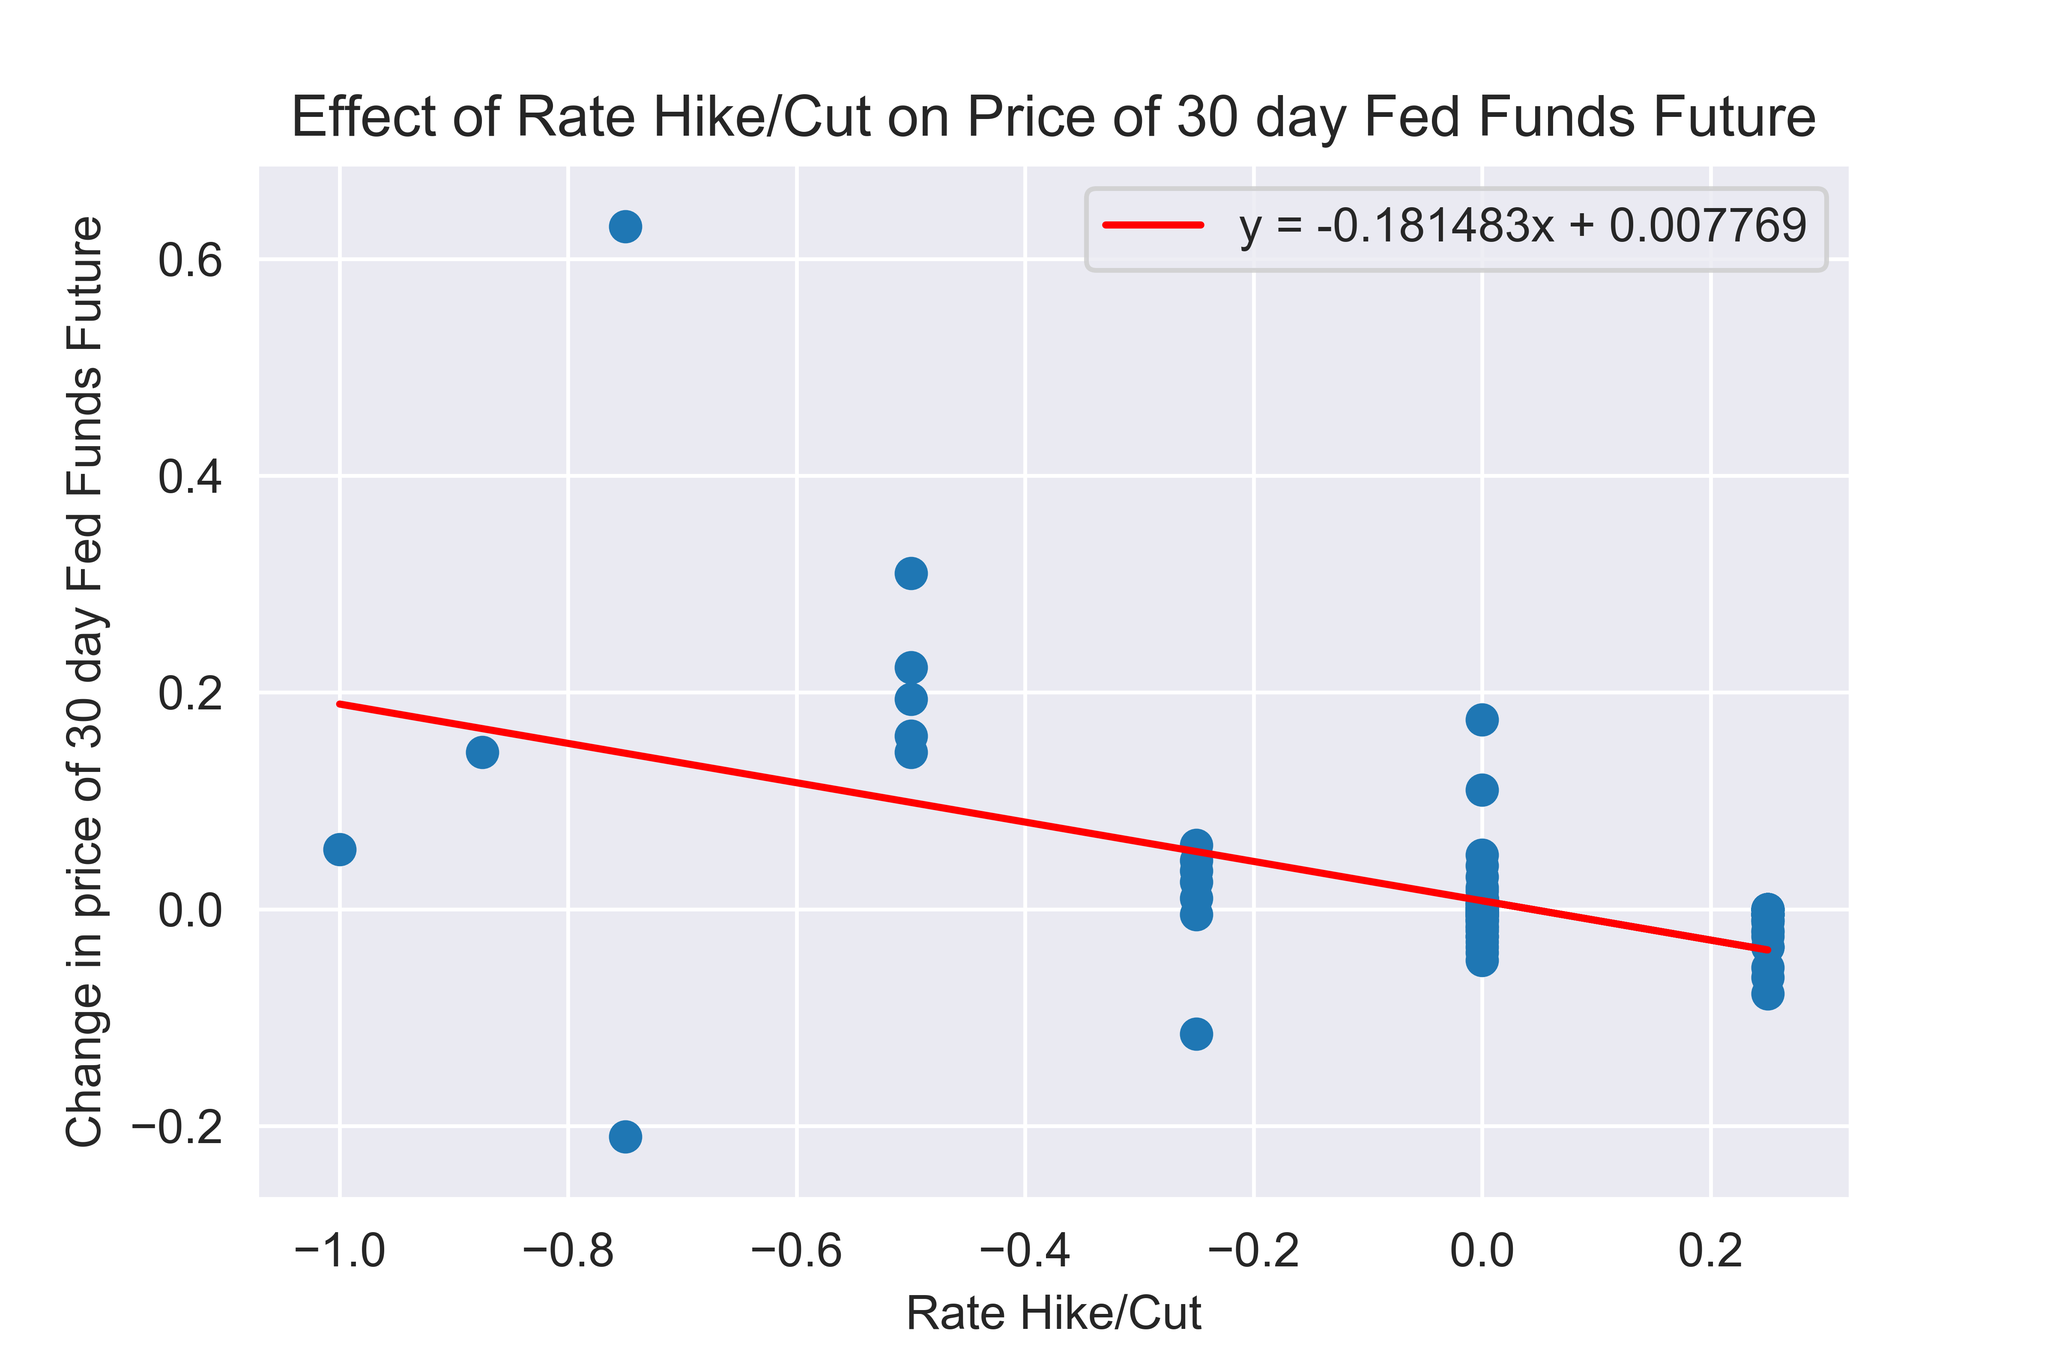
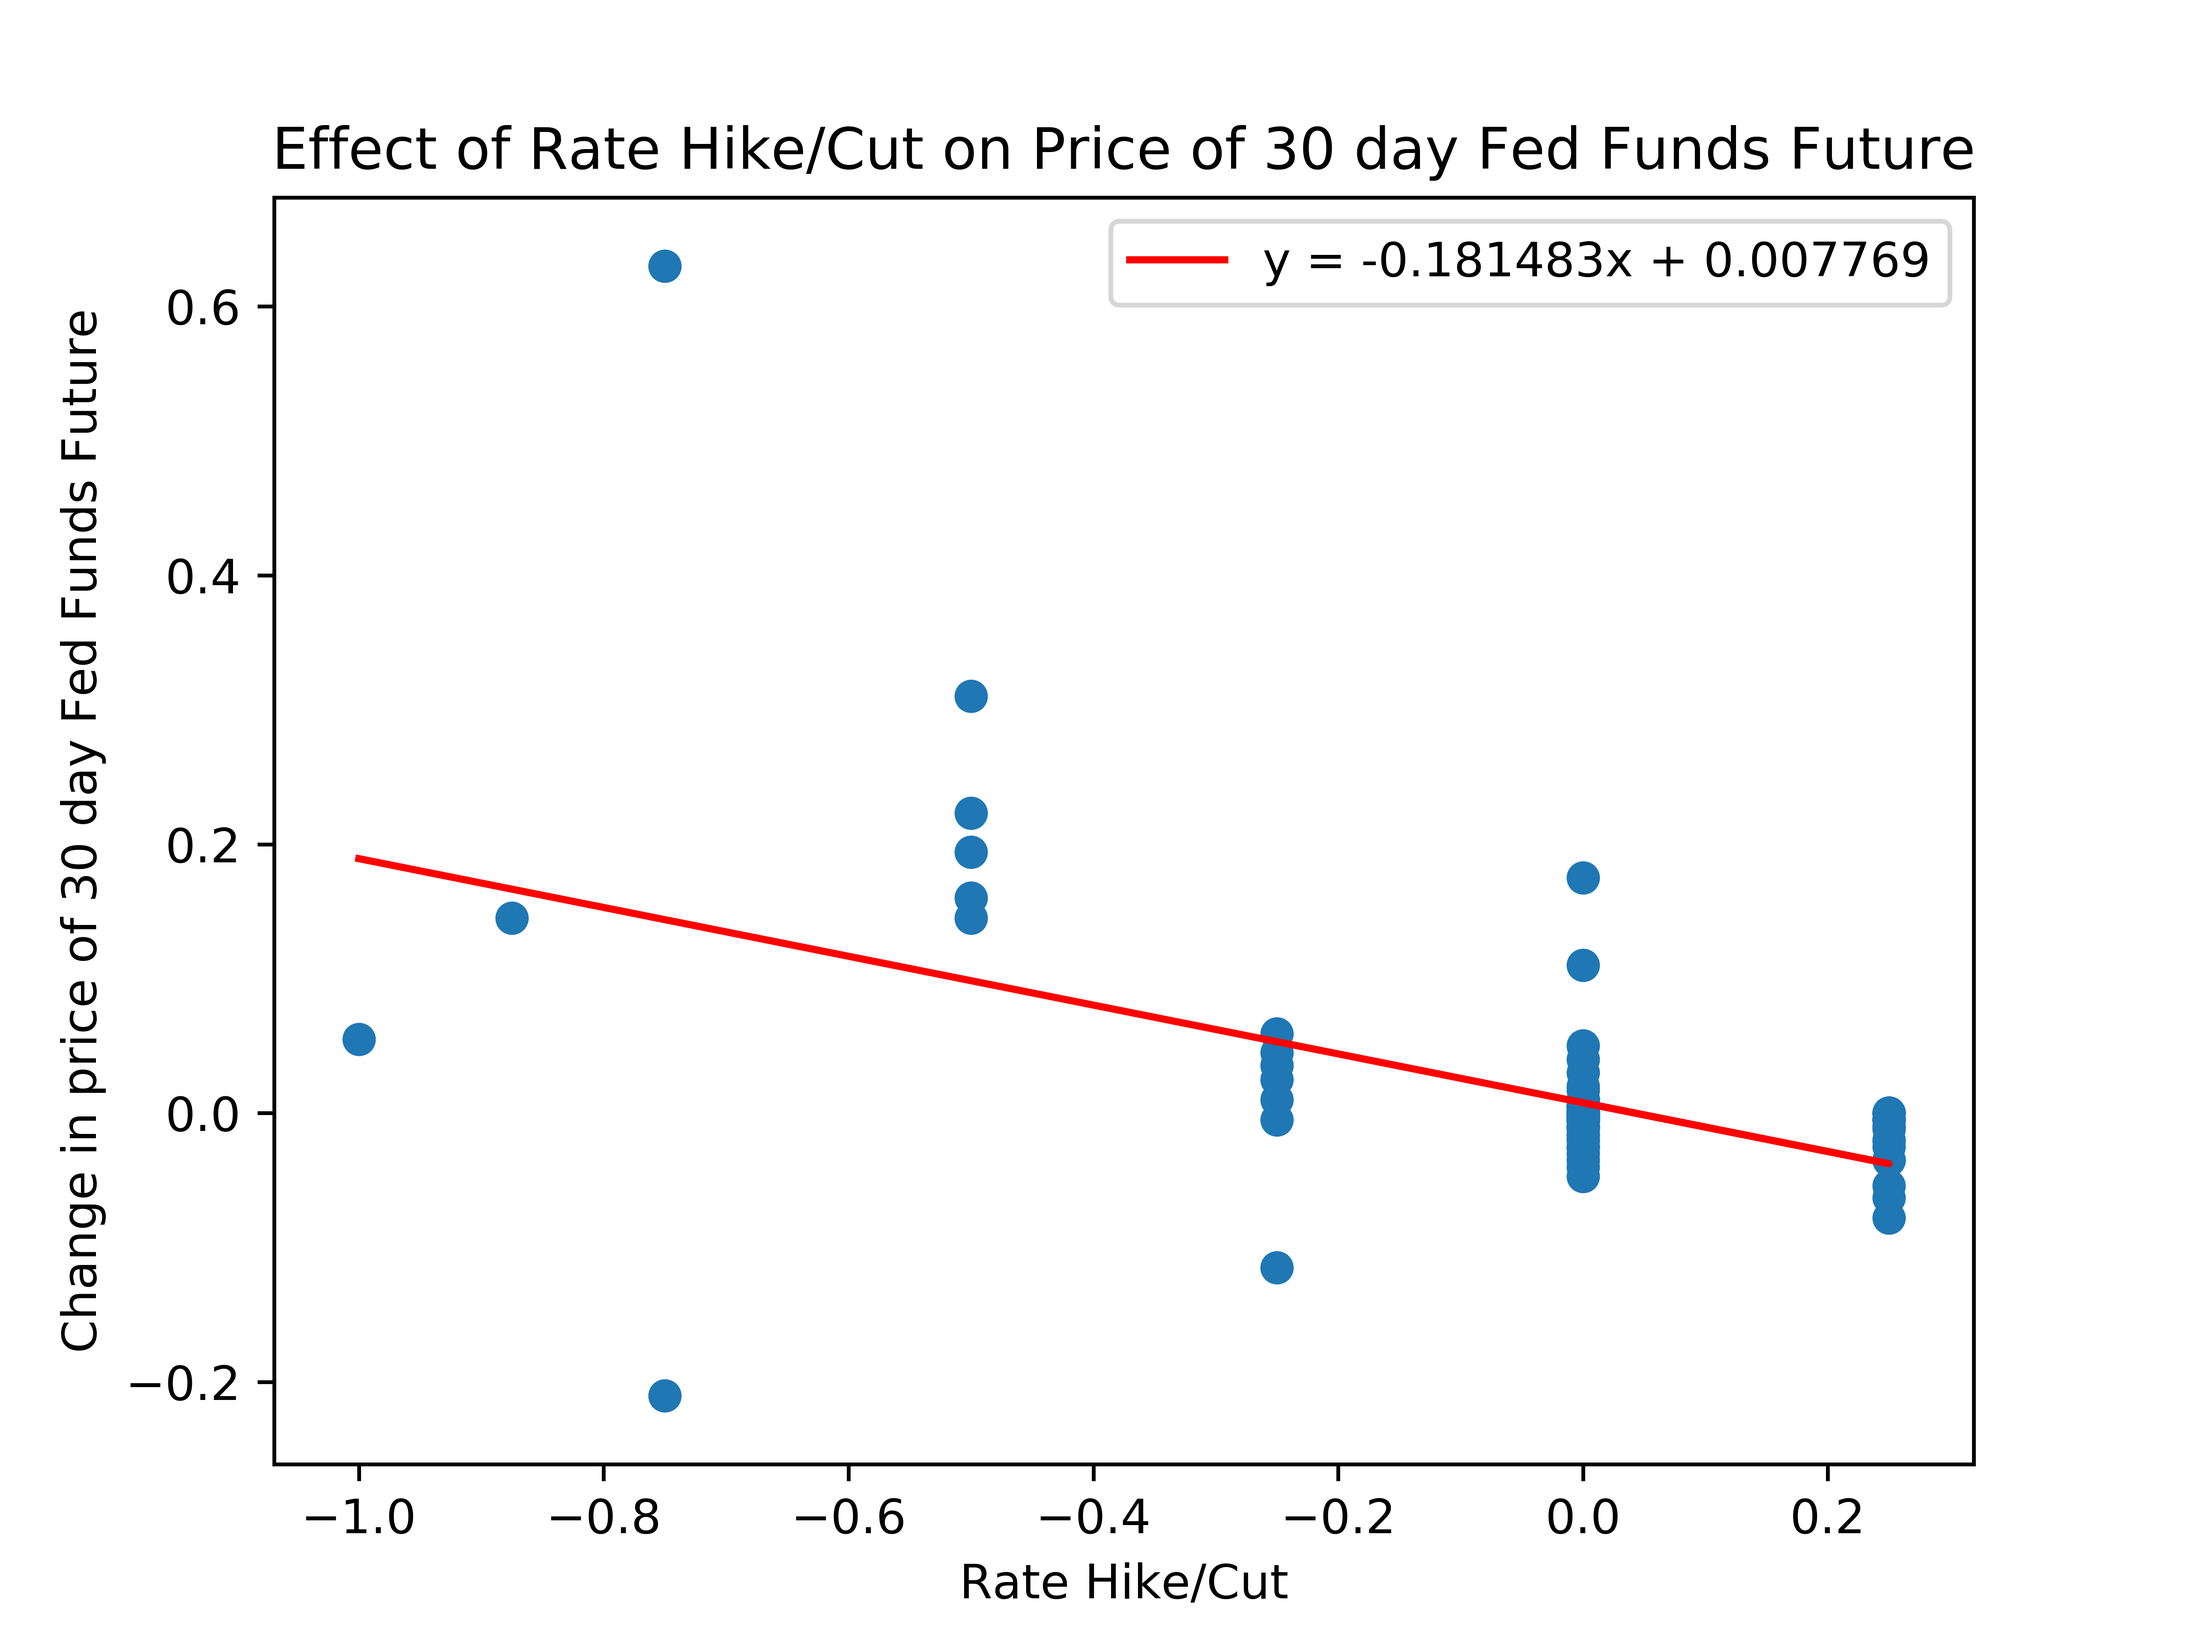
added preliminary_analysis.py

diff --git a/src/py_files/preliminary_analysis.py b/src/py_files/preliminary_analysis.py
@@ -1,0 +1,80 @@
+import numpy as np
+import pandas as pd
+from datetime import datetime, timedelta
+import matplotlib.pyplot as plt
+import seaborn as sns
+from scipy import stats, special
+
+def differenceBeforeAfterFOMC(massivechanges):
+    x = massivechanges['Rate Changes']
+    y = massivechanges['difference']
+
+    x_np = (massivechanges['Rate Changes']).to_numpy()
+    y_np = massivechanges['difference'].to_numpy()
+    m, b = np.polyfit(x_np, y_np, 1)
+
+    plt.scatter(x, y)
+    plt.plot(x, m * x + b, 'r-', label='y = {0:.{1}f}'.format(m, 6) + 'x + {0:.{1}f}'.format(b, 6))
+    plt.xlabel("Rate Hike/Cut")
+    plt.ylabel("Change in price of 30 day Fed Funds Future")
+    plt.title("Effect of Rate Hike/Cut on Price of 30 day Fed Funds Future")
+    plt.legend()
+
+    plt.savefig('../figures/rate_change_on_FFF.png', dpi=800)
+
+def differenceBeforeBeforeFOMC(massivechanges):
+    x = massivechanges['difference type 2']
+    y = massivechanges['Rate Changes']
+    x_np = (massivechanges['difference type 2']).to_numpy()
+    y_np = massivechanges['Rate Changes'].to_numpy()
+
+    m, b = np.polyfit(x_np, y_np, 1)
+
+    fig = plt.figure(figsize=(10, 10))
+    sns.scatterplot(x='difference type 2', y='Rate Changes', data=massivechanges)
+    plt.plot(x, m * x + b, 'r-',
+             label='y = {0:.{1}f}'.format(m, 6) + 'x + {0:.{1}f}'.format(b, 6) + '\nr^2 = {0:.{1}f}'.format(
+                 0.6635572131965038, 3))
+    plt.xlabel("Change in Fed Funds Future between the day before the last cut/hike and the day before the FOMC")
+    plt.ylabel("Rate Hike/Cut")
+    plt.title("Effectiveness of Fed Funds future in predicting Fed Rate/Hike")
+    plt.legend()
+
+    plt.savefig('../figures/FFF_on_rate_change.png', dpi=800)
+
+    slope, intercept, r_value, p_value, std_err = stats.linregress(x_np, y_np)
+    print(slope)
+    print(intercept)
+    print(r_value ** 2)
+    print(p_value)
+
+def differenceAfterAfterFOMC(massivechanges):
+    x = massivechanges['Rate Changes']
+    y = massivechanges['difference type 3']
+    x_np = massivechanges['Rate Changes'].to_numpy()
+    y_np = (massivechanges['difference type 3']).to_numpy()
+    m, b = np.polyfit(x_np, y_np, 1)
+
+    fig = plt.figure(figsize=(10, 10))
+    sns.scatterplot(x='Rate Changes', y='difference type 3', data=massivechanges)
+    plt.plot(x, m * x + b, 'r-',
+             label='y = {0:.{1}f}'.format(m, 6) + 'x + {0:.{1}f}'.format(b, 6) + '\nr^2 = {0:.{1}f}'.format(
+                 0.5645045838882956, 3))
+    plt.ylabel("Change in Fed Funds Future between the day after the last cut/hike and the day after the FOMC meeting")
+    plt.xlabel("Rate Hike/Cut")
+    plt.title("Effectiveness of Fed Rate/Hike in predicting Fed Funds Future one day after meeting")
+    plt.legend()
+
+    plt.savefig('../figures/rate_change_on_FFF_2.png', dpi=800)
+
+    slope, intercept, r_value, p_value, std_err = stats.linregress(x_np, y_np)
+    print(slope)
+    print(intercept)
+    print(r_value ** 2)
+    print(p_value)
+
+if __name__ == "__main__":
+    massivechanges = pd.read_csv("../data/meeting_future_combined_data.csv")
+    differenceBeforeAfterFOMC(massivechanges)
+    differenceBeforeBeforeFOMC(massivechanges)
+    differenceAfterAfterFOMC(massivechanges)
